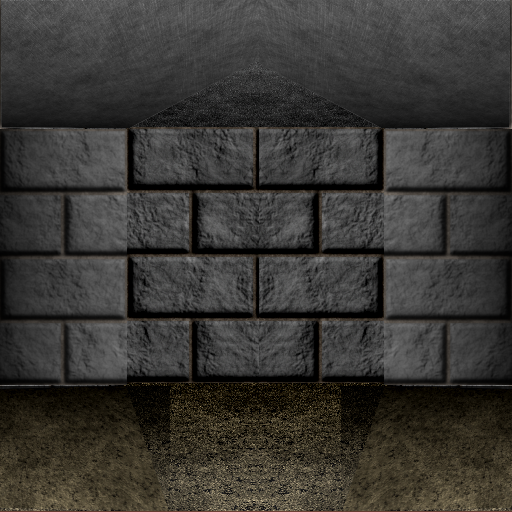
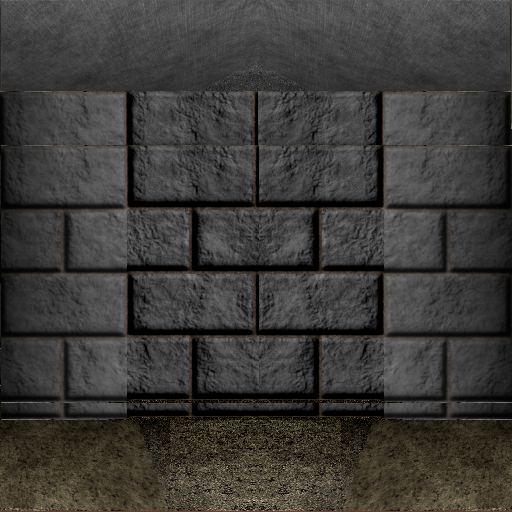
fixing tile rendering

Changed region(s): [[0.0, 0.1562, 1.0, 0.8438], [0.8125, 0.2812, 0.8438, 0.3125], [0.1562, 0.2812, 0.1875, 0.3125]]

diff --git a/src/features/room/Room.tsx b/src/features/room/Room.tsx
@@ -47,8 +47,8 @@ export const Room = () => {
     const [backtrack, setBacktrack] = useState(backtrackArr);
     const [verticalTileArr, setVerticalTileArr] = useState<Array<Array<number>>>(Array.from({ length: 8 }, () => []));
     
-    const turnTileRight = require('../../resources/dung-turn.png');
-    const turnTileLeft = require('../../resources/dung-turn-left.png');
+    const turnTileRight = require('../../resources/dung-turn_old.png');
+    const turnTileLeft = require('../../resources/dung-turn-left_old.png');
     const corridorTile = require('../../resources/dung-corridor.png');
     const facingWallTile = require('../../resources/brickwall.png');
     const turnThreeWay = require('../../resources/dung-threeway.png');
@@ -71,14 +71,14 @@ export const Room = () => {
     //     [0, 0, 0, 0, 0, 0, 0, 0]
     // ]
     // const dg_map = [
-    //     [2, 1, 1, 1, 1, 1, 1, 2],
-    //     [1, 0, 0, 0, 0, 0, 0, 1],
-    //     [1, 0, 0, 0, 0, 0, 0, 1]3
-    //     [1, 0, 0, 0, 0, 0, 0, 1],
-    //     [1, 0, 0, 0, 0, 0, 0, 1],
-    //     [2, 1, 1, 1, 1, 1, 1, 2],
-    //     [1, 0, 0, 0, 0, 0, 0, 1],
-    //     [2, 1, 1, 1, 1, 1, 1, 2]
+    //     [1, 1, 1, 1, 2, 0, 0, 0],
+    //     [0, 0, 0, 0, 1, 0, 0, 0],
+    //     [0, 0, 0, 0, 1, 0, 0, 0],
+    //     [9, 9, 1, 1, 3, 1, 1, 2],
+    //     [0, 0, 0, 0, 1, 0, 0, 1],
+    //     [0, 0, 0, 0, 1, 0, 0, 1],
+    //     [0, 0, 0, 0, 1, 0, 0, 1],
+    //     [0, 0, 0, 0, 2, 1, 1, 2]
     // ]
     const dg_map = [
         [2, 1, 1, 3, 1, 3, 1, 2],
@@ -355,7 +355,6 @@ const processTurnTile = (
   index: number,
   newDir: boolean
 ) => {
-  // Determine if we should use left or right turn tile
   const shouldUseRightTurn = shouldUseTurnRight(direction, index, newDir);
   
   return {
@@ -1342,6 +1341,16 @@ const debugLog = (message: string, data?: any) => {
             return () => document.removeEventListener('keydown', handleKeyPress);
         }
     }, [handleKeyPress]); 
+    function calculateScale(index: number) {
+      if (index === 0 ) {
+        return 1.31
+      } else if (index === 1) {
+        return 0.67
+      } else {
+        console.log(pathTileArr[index], 'path tile test')
+        return pathTileArr[index] === 2 ? 0.67 / index + 0.1 : 0.67 / index + 0.1
+      }
+    }
     return (
         <View style={styles.backgroundImage}>
             <TouchableOpacity 
@@ -1374,7 +1383,7 @@ const debugLog = (message: string, data?: any) => {
                     style={[
                         styles.backgroundImage,
                         {
-                            transform: [{scale: index === 1 ? 0.67 : 0.67/index+0.1}],
+                            transform: [{scale: calculateScale(index)}],// index === 1 ? 0.67 : 0.67/index+0.1}],
                             position: 'absolute'
                         }
                     ]} 
